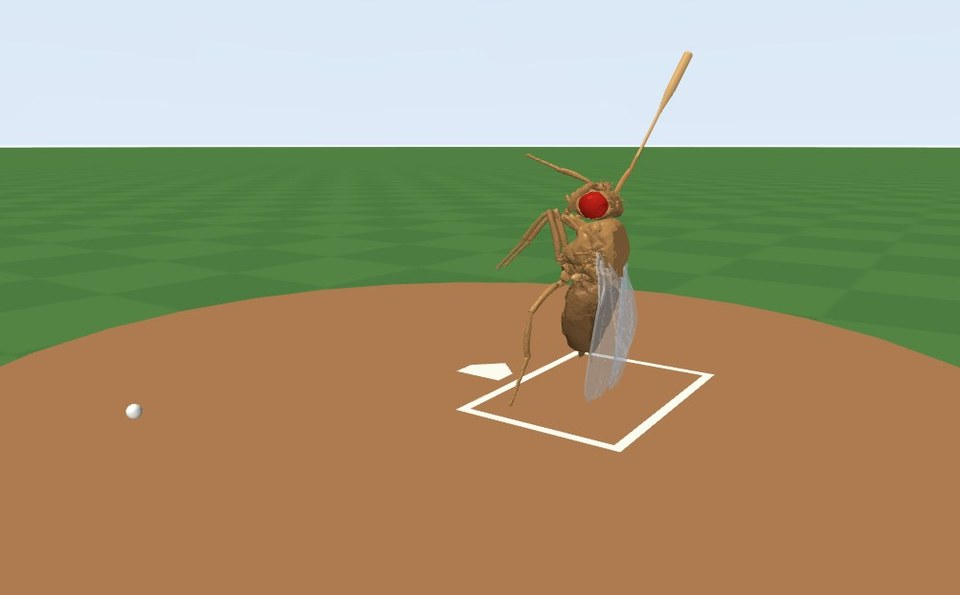
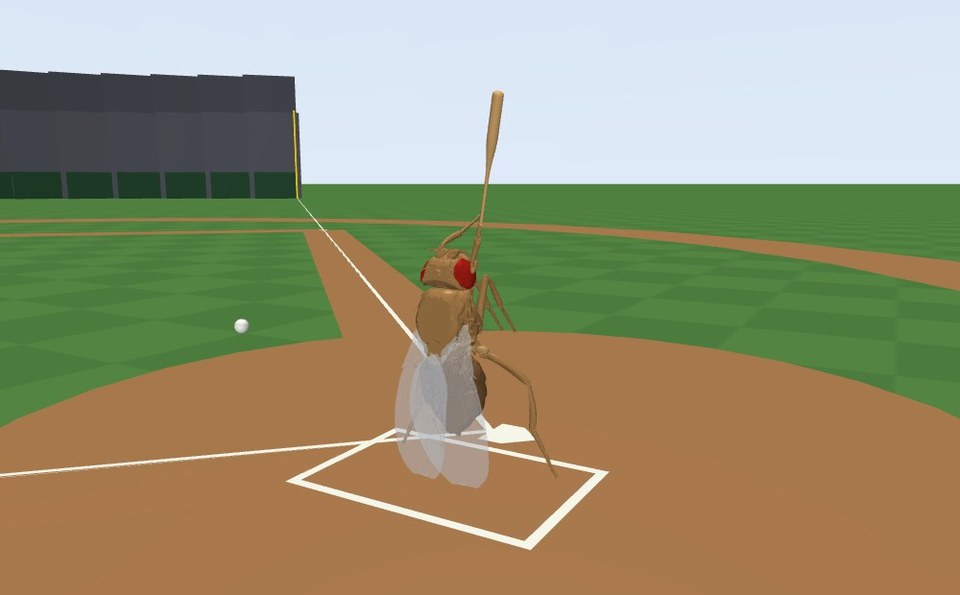
README: the fastball, the line drive, and the bill for both
New pictures throughout -- the park behind the plate, the 38 ms swing, the
eye frames sampled from the real pitch instead of an invented one -- and the
numbers that go with them: 740 mm/s off the bat at +14 degrees, 29.9 mm of
carry, about 15 m at human scale.

The "does not claim" list grows, because the departures grew: a 2x ball, an
eye six times finer than the animal's, a mound 60 m away in real terms, and
an "Ohtani-class" that means this body's ceiling rather than a scaled human
one.

Changed region(s): [[0.0, 0.121, 1.0, 0.9378], [0.6875, 0.0908, 0.7188, 0.1815], [0.125, 0.6655, 0.1562, 0.7261]]

diff --git a/README.en.md b/README.en.md
@@ -16,7 +16,7 @@ A research simulation built from a NeuroMechFly body, a MaleCNS connectome circu
 
 <img src="docs/assets/hit.gif" width="640" alt="A 3.7 mm fly in the batter's box swings a bat and hits the ball. Left: a camera down the third-base line. Right: a camera following the ball.">
 
-<sub>A recorded hit, played 8× slower than real time. <b>The swing is still scripted</b> — it is not a learned motion.</sub>
+<sub>A recorded hit, played 133× slower than real time: a Kershaw-class fastball turned into a line drive to left-centre — about 15 m at human scale. <b>The swing is still scripted</b> — it is not a learned motion.</sub>
 
 </div>
 
@@ -56,23 +56,41 @@ are in [PLAN](docs/PLAN.md) (Korean).
 
 <img src="docs/assets/batter-ready.jpg" width="720" alt="A fly standing upright in the middle of the right-handed batter's box, holding a bat with its foreleg.">
 
+The park is built to real dimensions — foul lines, bases, mound, an outfield
+fence (325 ft down the lines, 400 ft to centre, 12 ft high), stands, foul
+poles and a backstop — and all of it is **scenery only**, with collisions off. The dark
+section of the centre-field stands is the **batter's eye**, there for the
+reason a real park has one: a white ball is lost against a bright sky
+(measured: 7 of 9 frames against sky, 9 of 9 against the screen).
+
 The body is held fixed and **only the right foreleg** moves, through its real
-joints. Bat, ball, home plate and the box are all shrunk by a single factor
-(fly height 3.74 mm ÷ human height 1830 mm ≈ 1/490). The bat is a 1.76 mm solid
-of revolution made from the profile of a real wooden bat.
+joints. Bat, home plate and the box are shrunk by a single factor (fly height
+3.74 mm ÷ human height 1830 mm ≈ 1/490). The bat is a 1.76 mm solid of
+revolution made from the profile of a real wooden bat. **The ball is the one
+exception, at twice scale** (radius 0.151 mm): at true scale it is
+[measurably invisible](docs/records/VM-01-EYE-RATE.md) to this eye. Its mass
+is still scale-true, so it is a big, very light ball.
 
 <img src="docs/assets/swing-strip.jpg" width="720" alt="Seven frames of the swing, from the ready pose to the contact pose.">
 
-<sub>The 35 ms demo swing. Peak joint speed 215 rad/s, inside the 300 rad/s biological ceiling we adopted.</sub>
+<sub>The 38 ms demo swing. Peak joint speed 287 rad/s, inside the 300 rad/s biological ceiling, and the fastest bat speed this arm reaches at the moment of contact (390 mm/s).</sub>
 
 ### What the fly sees
 
 <img src="docs/assets/fly-eyes.png" width="560" alt="Four 32×32 grayscale eye images: three left-eye frames as the ball approaches, and one right-eye frame.">
 
-One 32×32 grayscale camera on each side of the head (120° field of view). Because
-the fly stands sideways, **its left eye looks straight at the pitcher.** The first
-three frames are the left eye as the ball closes in; the last is the right eye.
-The red ring is an annotation — it is not part of the input the fly receives.
+One 32×32 grayscale camera on each side of the head. The fly stands sideways,
+so the left eye is the one facing the pitcher: it is **a 30° acute zone**
+(0.94° per pixel) **aimed down the pitch**, while **the right eye keeps a 120°
+wide field**. Each pixel integrates light over its own solid angle rather than
+point-sampling, the way an ommatidium does. The first three frames are the
+left eye taken from a real pitch: **at release, at the moment the swing must
+start, and at 48 ms**. At the decision the ball is **a third of a pixel
+across at 2–3.5% contrast** — about where a photoreceptor's limit is, and
+about where a human batter reads a 93 mph fastball. It is still picked up in
+all nine frames of the decision window, thanks to the acute zone and the dark
+batter's eye behind it. The last frame is the right eye. The red ring is an
+annotation — it is not part of the input the fly receives.
 
 ### The circuit in the brain
 
@@ -99,9 +117,11 @@ on one screen. Built by modifying
 | **LIT-01** speed ceiling | Measured walking peak 98.6 rad/s; jump estimate 240–516 rad/s → design ceiling **300 rad/s** (bat tip up to 4.53 m/s) |
 | **G4** connectome | LC4 (126) · LPLC2 (185) → 12 descending neurons, 1,343 connections. Known looming–escape pathways (LPLC2 → Giant Fiber, …) are present in the data |
 | **G2** contact | v1 **FAILED** (contact lasted only 3–4 steps, so the restitution coefficient swung 0.33 ↔ 0.63) → v2 passed (restitution 0.42–0.46) |
+| **VM-01** vision | A scale-true ball is **not visible**: 0.25° across against a 3.75° pixel. 180 + 576 + 256 combinations measured; the answer is a 2× ball and an aimed 30° eye. The eye's frame rate was never the bottleneck |
 | Batter-scene contact check | K1–K6 all pass. Restitution 0.41–0.46, no energy created |
-| Recorded hit | Pitch 1.81 m/s (scaled), exit speed 602 mm/s, launch −24°, carry 1.96 mm (~1 m at human scale) — **a fair ground ball** |
-| Recorded miss | Swinging just 4 ms late misses entirely. The timing window is very narrow |
+| **VM-01** pitch | A slow pitch is lofted by gravity (+21° launch). It takes a **Kershaw-class fastball** (93 mph Froude-scaled to 1888 mm/s) released 122 mm away to fly flat (+5.6°) |
+| Recorded hit | Exit speed 740 mm/s (32% of a Froude-scaled Ohtani), launch +14°, carry 29.9 mm — **a line drive, about 15 m at human scale** |
+| Recorded miss | Being 3 ms off misses entirely; the contact window is about ±1 ms |
 
 Failed runs are kept, not deleted. Evidence files are in
 [docs/records/evidence/](docs/records/evidence/); the run log is
@@ -122,10 +142,10 @@ python3.11 -m venv .venv
 ### Record an episode
 
 ```bash
-.venv/bin/python -m flyohtani.record pitch --out runs/record/hit                     # a hit
-.venv/bin/python -m flyohtani.record pitch --timing-ms 4 --out runs/record/miss-late # swinging late
-.venv/bin/python -m flyohtani.record pitch --speed-scale 0.5 --out runs/record/slow  # a slower pitch
-.venv/bin/python -m flyohtani.record swing --out runs/record/swing                   # the swing alone, no ball
+.venv/bin/python -m flyohtani.record pitch --aim-z-mm 0.05 --out runs/record/hit       # a hit
+.venv/bin/python -m flyohtani.record pitch --timing-ms -3 --out runs/record/miss-early # swinging early
+.venv/bin/python -m flyohtani.record pitch --speed-scale 0.8 --out runs/record/slow    # a slower pitch
+.venv/bin/python -m flyohtani.record swing --out runs/record/swing                     # the swing alone, no ball
 ```
 
 Each writes `video.mp4`, a contact sheet `sheet.png` and the outcome
@@ -179,6 +199,13 @@ docs/               plan, status, per-gate reports, evidence files (Korean)
   wiring + assumed neuron dynamics + assumed plasticity.
 - The brain panel in the viewer shows **wiring**, not activity.
 - The swing in the video is **scripted**, not learned.
+- The ball is **twice scale**, the left eye is **six times finer** than a real
+  fruit fly's, and the mound is **60 m away** in real terms. That is what it
+  took to let the fly see a pitch and still swing at it; the bill is itemised
+  in [VM-01](docs/records/VM-01-EYE-RATE.md).
+- "Ohtani-class" here means the ceiling of **this body**, not a scaled human
+  one: the bat reaches a quarter of a Froude-scaled Ohtani, and the 300 rad/s
+  joint limit was left where the literature put it.
 - Hand-written and RL controllers are environment baselines only. Any claim that
   the real circuit does better waits for shuffled-wiring and frozen-circuit
   controls.
@@ -193,6 +220,7 @@ The documents below are in Korean.
 | [STATUS](docs/records/STATUS.md) | What is verified now and what is blocked |
 | [G1 foreleg swing](docs/records/G1-FORELEG-SWING.md) · [LIT-01 speed limits](docs/records/LIT-01-FLY-LEG-LIMITS.md) | Body |
 | [G2 contact](docs/records/G2-CONTACT.md) · [batter scene](docs/records/BATTER-SCENE.md) | World |
+| [VM-01 vision](docs/records/VM-01-EYE-RATE.md) | Can the ball be seen — three failures and the design rules they produced |
 | [G4 connectome](docs/records/G4-CONNECTOME-ACCESS.md) | Brain |
 | [Prior findings](docs/records/PRIOR-FINDINGS.md) | What the previous version settled, and the failures not to repeat |
 | [Index](docs/README.md) | The full list |

diff --git a/docs/assets/README.md b/docs/assets/README.md
@@ -4,9 +4,9 @@
 
 | 파일 | 내용 | 만든 방법 |
 | --- | --- | --- |
-| `hit.gif` | 안타 에피소드 (실제보다 8배 느리게) | `python -m flyohtani.record pitch --out runs/record/hit` (커밋 `c4646d2`)의 `video.mp4`를 640 px로 줄여 GIF로 변환 |
-| `batter-ready.jpg` | 준비 자세 | `flyohtani.world.batter`의 장면을 `READY_POSE`로 렌더링 (커밋 `84ae63d`) |
-| `swing-strip.jpg` | 35 ms 데모 스윙 7장면 | 같은 장면에서 `swing_targets`를 따라가며 균등 간격으로 렌더링 |
-| `fly-eyes.png` | 눈 카메라 입력 32×32 | `render_eyes` 출력을 6배 확대. 왼쪽 눈 3장(공이 멀리→가까이) + 오른쪽 눈 1장. 빨간 원은 설명용으로 덧그린 것 |
+| `hit.gif` | 안타 에피소드 (실제보다 133배 느리게) | `python -m flyohtani.record pitch --aim-z-mm 0.05 --out runs/record/hit`의 `video.mp4`를 540 px·56색으로 줄여 GIF로 변환. `--aim-z-mm 0.05`는 스크립트 스윙이 공 윗면을 때리는 것을 보정한 값(D32) |
+| `batter-ready.jpg` | 준비 자세 | `flyohtani.world.batter`의 장면을 `READY_POSE`로 1루 쪽에서 렌더링 |
+| `swing-strip.jpg` | 38 ms 데모 스윙 7장면 | 같은 장면에서 `swing_targets`를 따라가며 균등 간격으로 렌더링 |
+| `fly-eyes.png` | 눈 카메라 입력 32×32 | `render_eyes` 출력(4배 초과표본 면적 적분)을 6배 확대. 왼쪽 눈(시야 20° acute zone) 3장은 **실제 투구의 릴리스·결정 시점·48 ms**, 오른쪽 눈(120°) 1장. 빨간 원은 설명용으로 덧그린 것 |
 | `brain-circuit.jpg` | 뇌 지도 위 회로 4단계 | `flyohtani.brain.replay.wiring_replay`를 `viewer/`에 띄우고 headless Chrome으로 캡처. 밝기는 시냅스 수(활동 아님) |
 | `viewer.jpg` | 뷰어 전체 화면 | `hit` 에피소드를 내보낸 뒤 `vite preview` 화면을 headless Chrome으로 캡처 |
